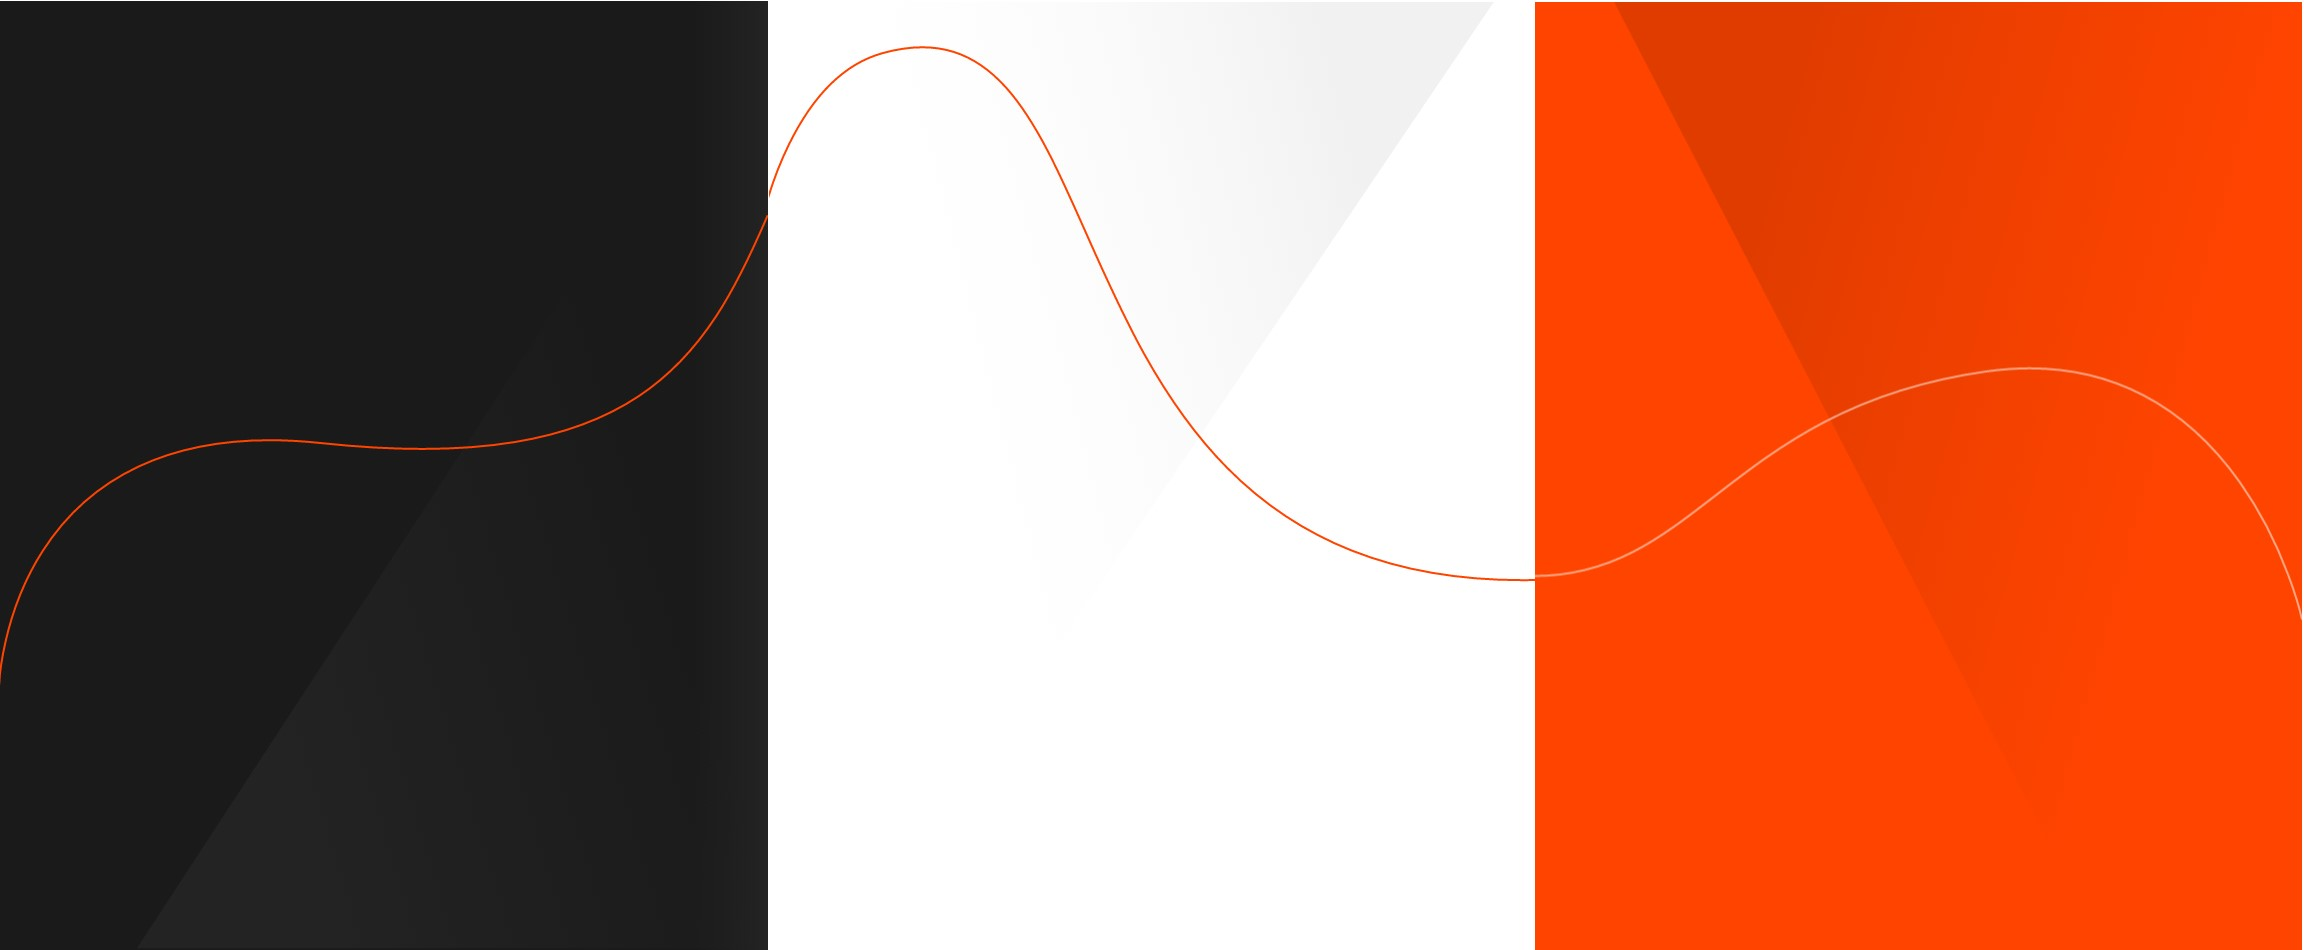
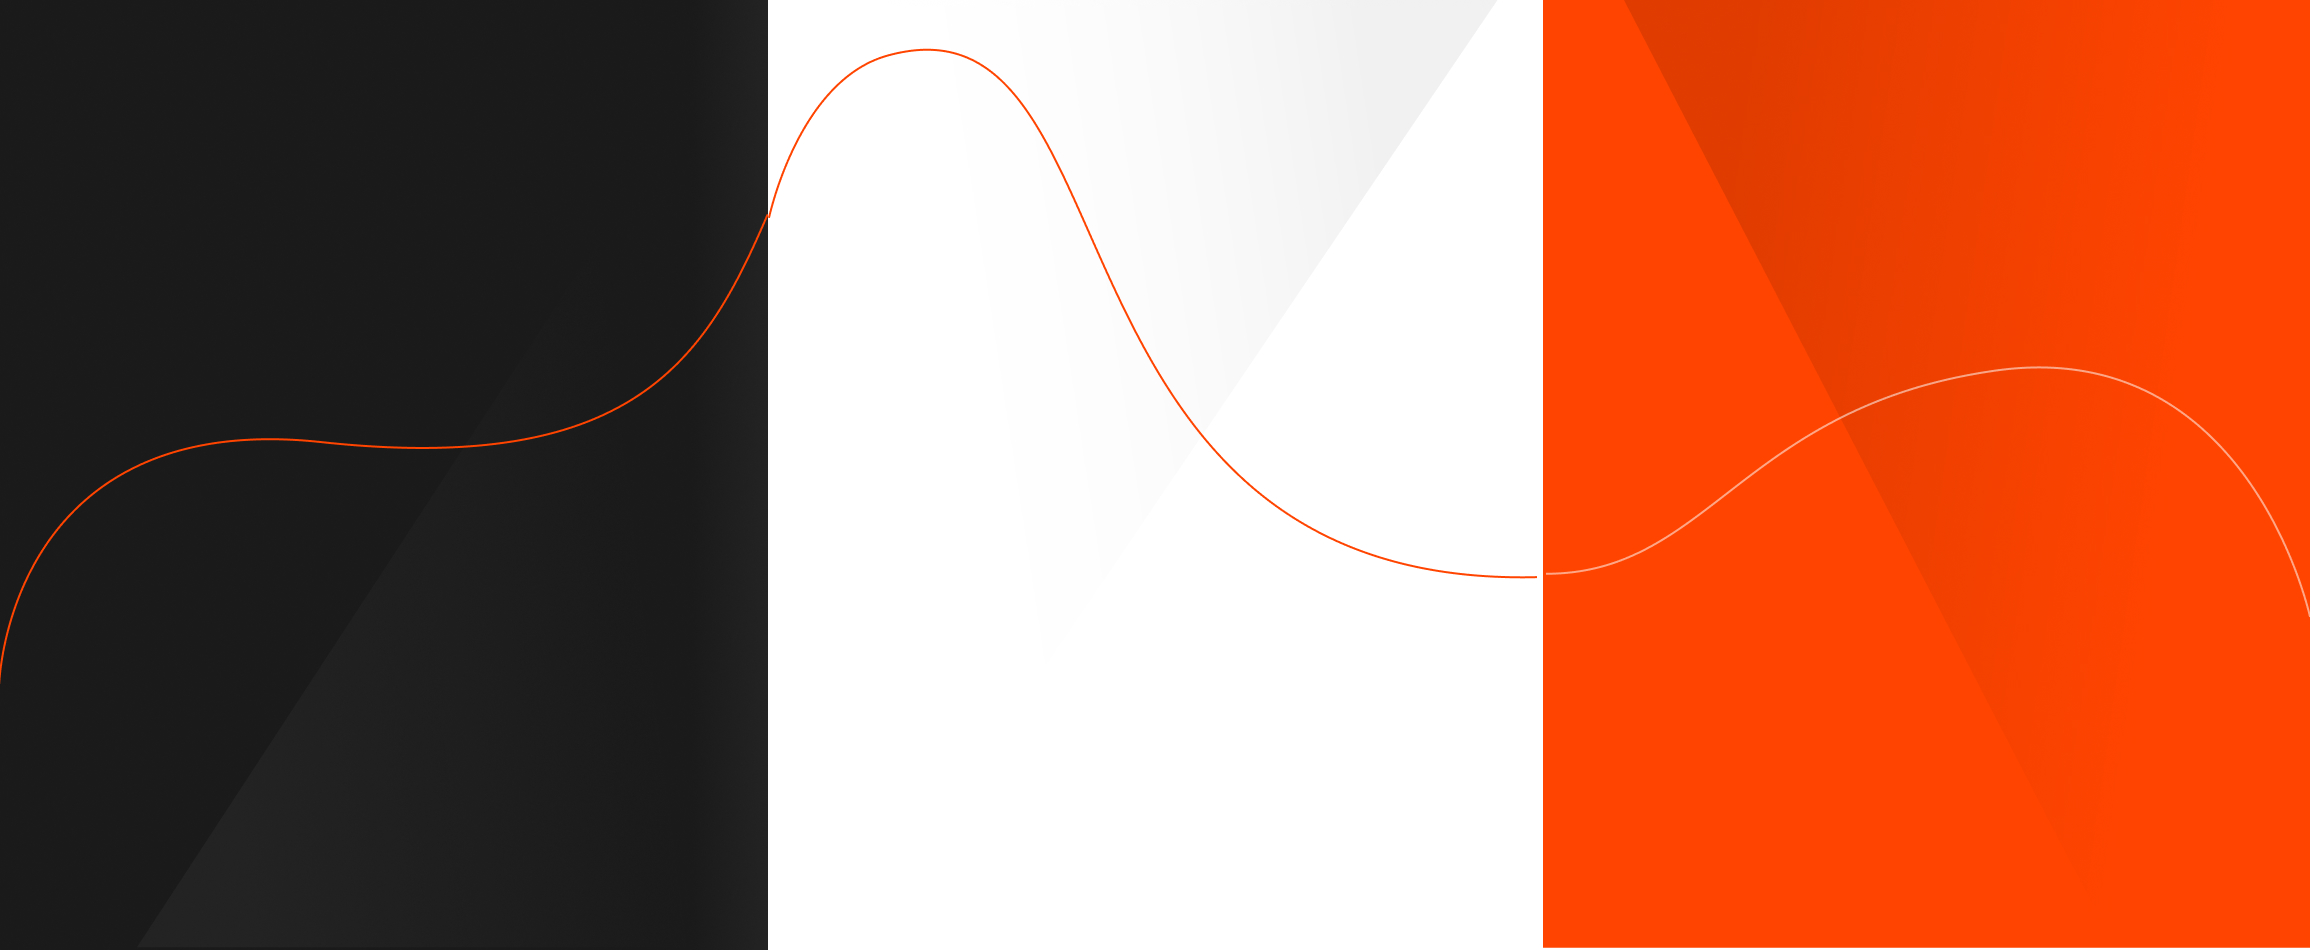
feat: improved animation bg images

diff --git a/src/components/promotion/use-promotion-animation.js b/src/components/promotion/use-promotion-animation.js
@@ -105,9 +105,9 @@ export const usePromotionAnimation = (
     );
   }, [
     isMobile,
-    isTablet,
-    isLG,
-    isXL,
+    tradePromoIntersectionRatio,
+    promoIntersectionRatioToScroll,
+    promoIntersectionRatioToReverse,
     dataPromo1Ref,
     dataPromo2Ref,
     dataPromo3Ref,

diff --git a/src/assets/styles/promotion.scss b/src/assets/styles/promotion.scss
@@ -198,7 +198,7 @@
 
     @include desktop-xl {
       width: 5760px;
-      height: 2862px;
+      height: 2868px;
       background: url("../../assets/images/bg/promotions/promotion-slide.svg") no-repeat center;
       background-size: 300% 100%;
     }
